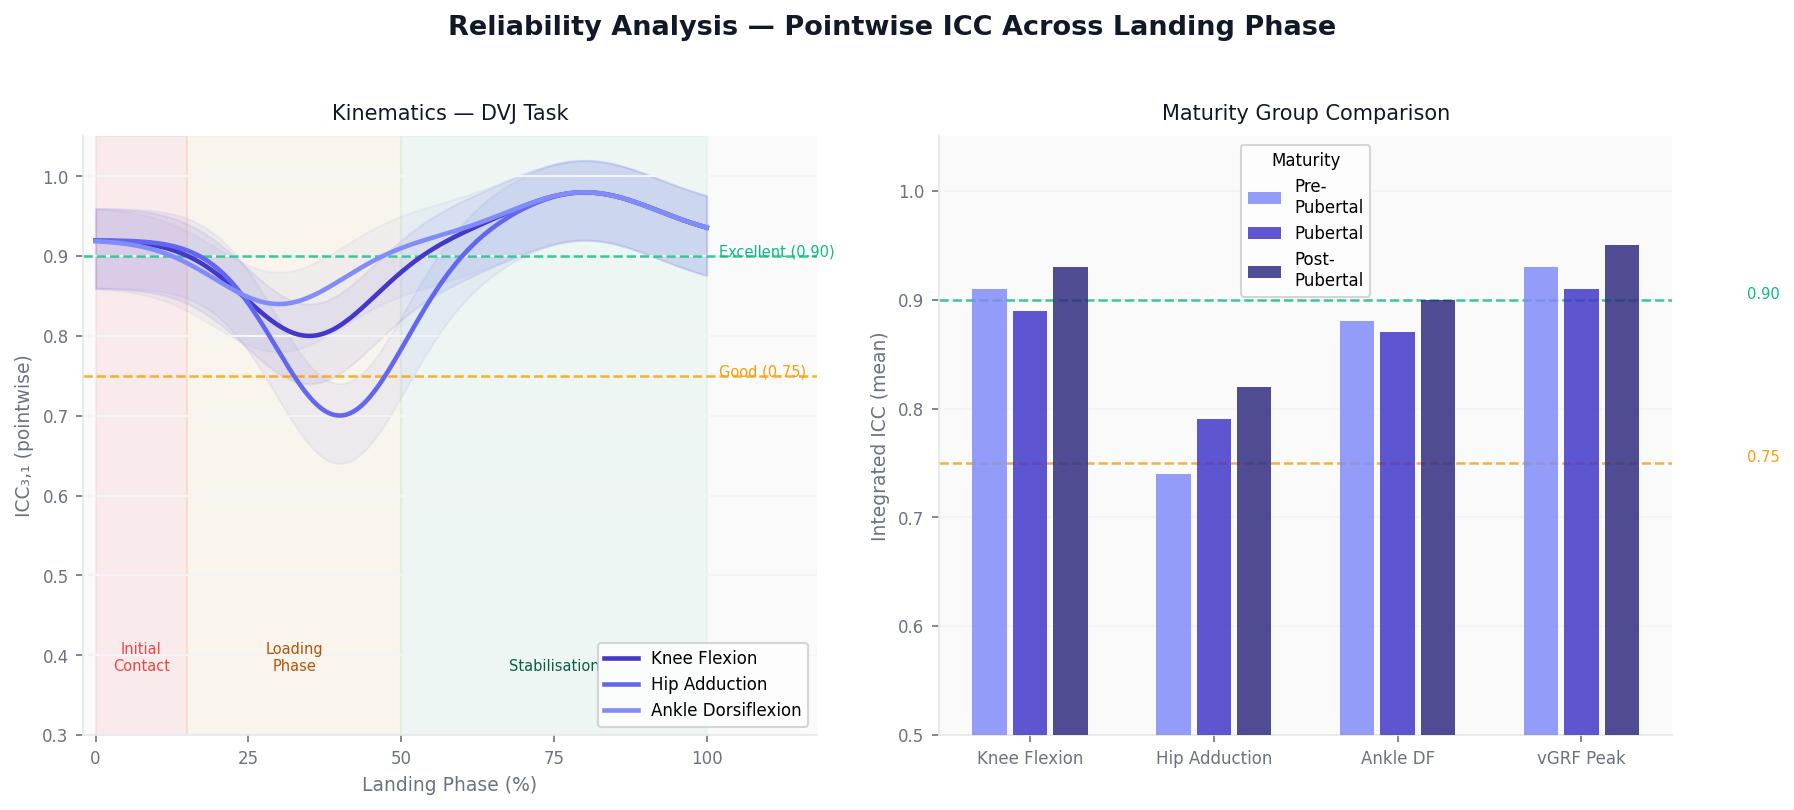
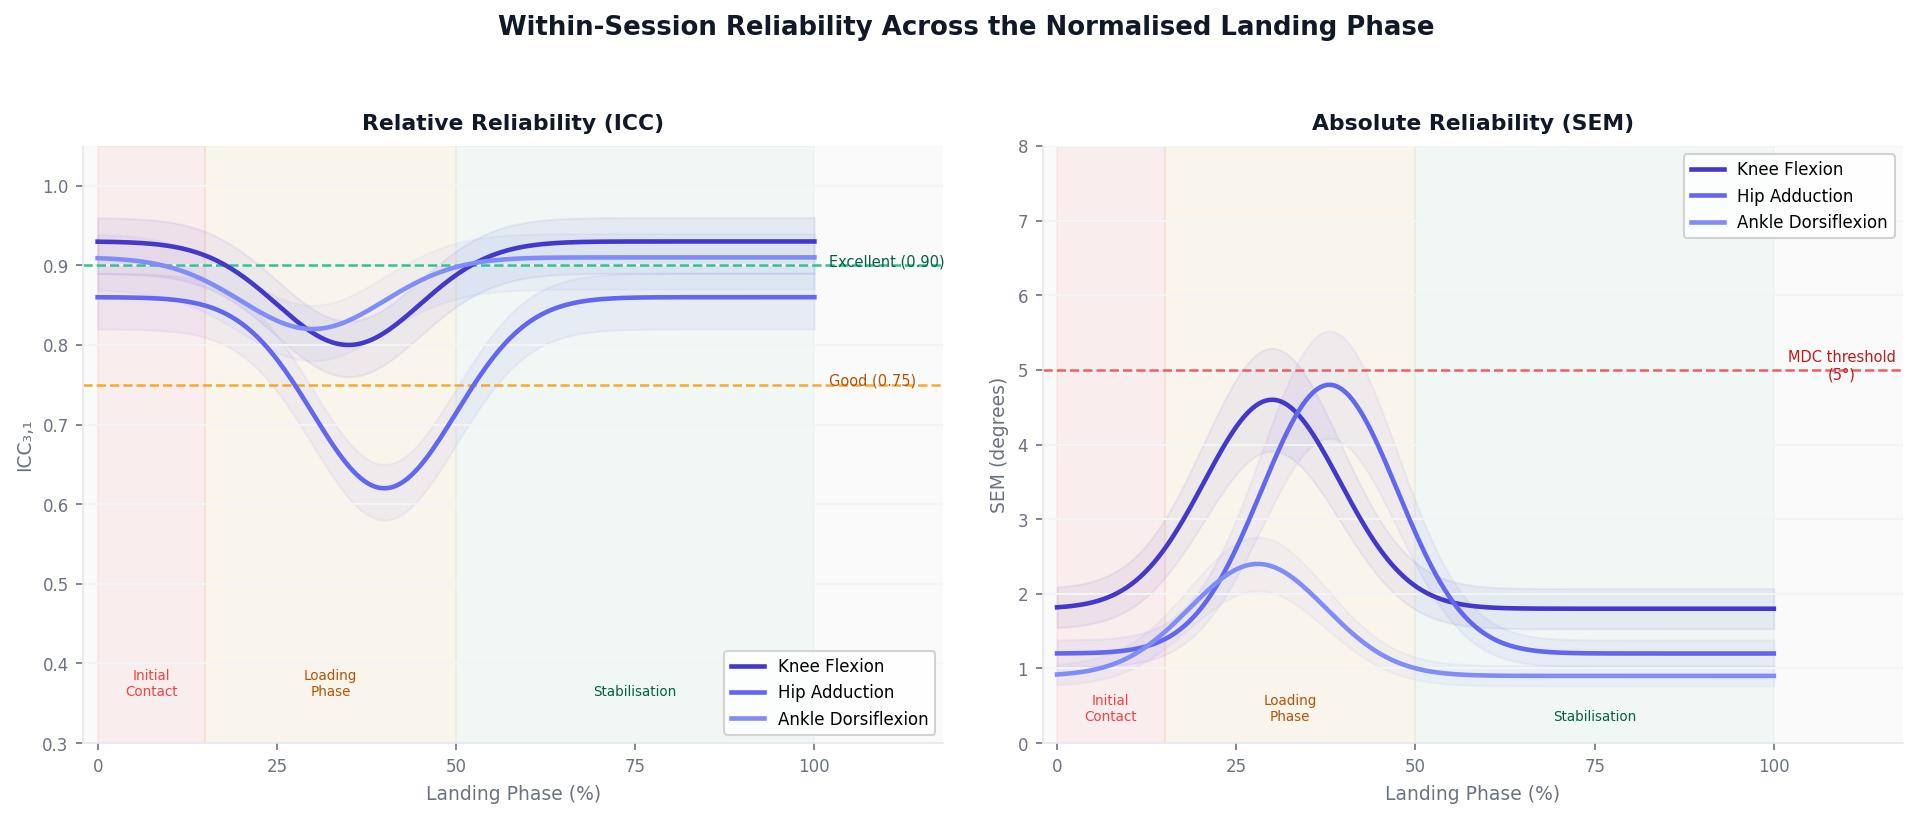
Update reliability figure to show both ICC and SEM across landing phase

diff --git a/mocap.html b/mocap.html
@@ -559,7 +559,7 @@
 
           <div class="stage-img contain">
             <img src="mocap_icc.jpg" alt="Pointwise ICC reliability curves" />
-            <div class="img-caption">Fig 5. Pointwise ICC profiles across the normalised landing phase (0–100%) for key kinematic variables (left), and integrated ICC comparison across maturity groups (right). Dashed lines mark Good (0.75) and Excellent (0.90) thresholds.</div>
+            <div class="img-caption">Fig 3. Pointwise relative reliability (ICC₃,₁, left) and absolute reliability (SEM in degrees, right) across the normalised landing phase for key kinematic variables. ICC thresholds: Good ≥0.75, Excellent ≥0.90. SEM peaks during the loading phase reflect greater measurement variability at high-demand instants.</div>
           </div>
         </div>
       </div>
